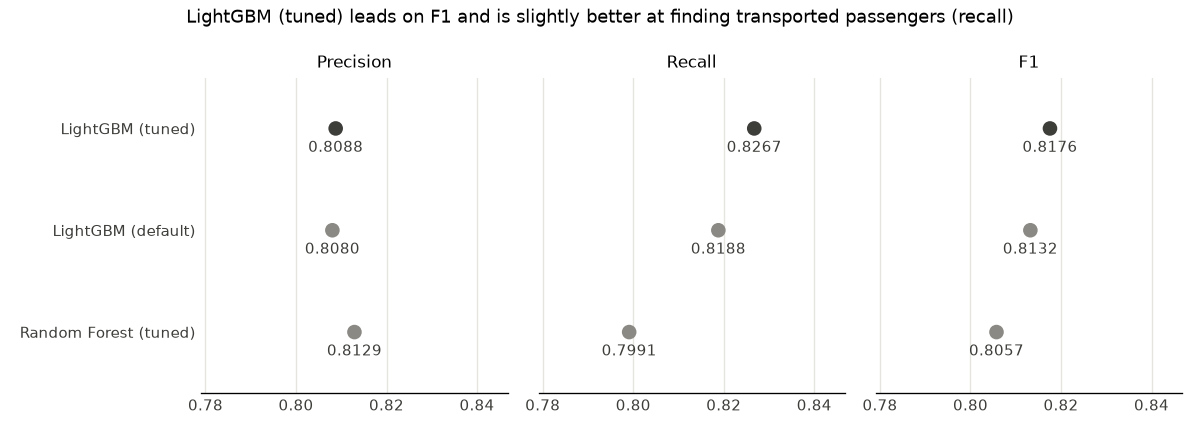
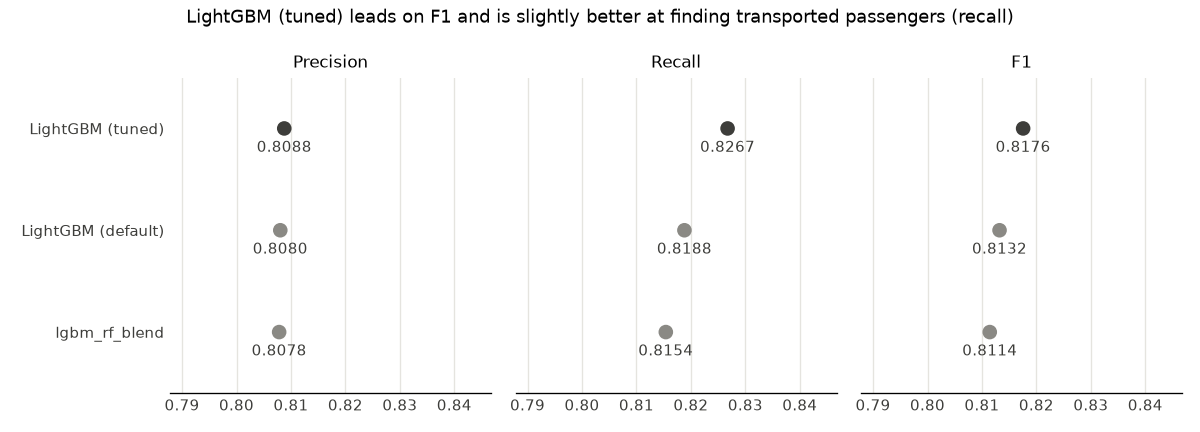
feat(role4): add 05c_blend.py, 50/50 soft-voting blend of tuned LightGBM + RF (#19)
- Rebuilds both tuned models from best_params_*.json (checked against
  results.csv with 07's load_params) and scores the blend with evaluate()
  on the shared GroupKFold folds -> row lgbm_rf_blend.
- Fixed 50/50 weights: no extra tuning, so no extra selection bias.
- Out-of-fold agreement analysis explains the result: probabilities
  correlate at 0.96, models disagree on 7.0% of passengers, and there
  LightGBM is right more often than the blend.
- Blend 0.8093 +/- 0.0129 vs LightGBM 0.8142 +/- 0.0112: does not beat the
  current best by more than one std, so 07_final_model.py is unchanged.
- Re-ran 06_compare.py so the blend is in the table and charts.
- Report updated; leakage review found no leakage.

diff --git a/05c_blend.py b/05c_blend.py
@@ -1,0 +1,205 @@
+"""Soft-voting blend of the tuned LightGBM and tuned Random Forest (Role 4, issue #19).
+
+Idea: LightGBM (boosting) and Random Forest (bagging) build trees in different
+ways, so they may make *different* mistakes. Soft voting averages the two
+models' predicted probabilities and predicts "transported" when the average
+is above 0.5. If the models disagree often and each is right in different
+places, the average can beat both; if they agree almost everywhere, the blend
+can only match them.
+
+Design choices (both keep the comparison fair):
+- Each model is rebuilt from its saved results/best_params_<name>.json, checked
+  against the params logged in results.csv, so we blend exactly the models
+  whose CV scores are already on the slides.
+- Fixed 50/50 weights, no tuning: tuning the weights on the same folds would
+  add another lucky pick (more optimism). With fixed weights the blend adds
+  no selection of its own.
+
+Steps:
+1. Load both tuned parameter sets (checked against results.csv).
+2. Score the blend with evaluate() on the shared GroupKFold folds
+   -> "lgbm_rf_blend" row + results/best_params_lgbm_rf_blend.json.
+   Nothing new is tuned: that json only records the configuration (the two
+   components' params, as Pipeline keys) under the team's file-name convention.
+   07_final_model.py ignores it unless Role 1 adds the blend to its MODELS.
+3. Overfitting check: training-fold vs validation-fold accuracy.
+4. Why the blend helps or not: how similar the two models' out-of-fold
+   probabilities are, and who is right when they disagree.
+5. Compare with LightGBM and Random Forest using the fold-to-fold std rule.
+
+test.csv is never read here.
+
+Run from the project folder:  python 05c_blend.py
+"""
+import importlib
+import json
+
+import pandas as pd
+from lightgbm import LGBMClassifier
+from sklearn.ensemble import RandomForestClassifier, VotingClassifier
+from sklearn.model_selection import cross_val_predict
+from sklearn.pipeline import Pipeline
+
+from src.config import RESULTS_DIR, SEED, TARGET, TRAIN_PATH
+from src.evaluation import RESULTS_PATH, evaluate, get_cv, get_groups
+from src.features import add_features, build_preprocessor
+
+OWNER = "Role 4"
+NAME = "lgbm_rf_blend"
+COMPONENTS = ("lightgbm", "random_forest")
+
+# Reuse 07's check that a best_params json still matches the params logged
+# with its CV score (the module name starts with a digit, hence importlib).
+load_params = importlib.import_module("07_final_model").load_params
+
+
+def load_data():
+    df = pd.read_csv(TRAIN_PATH)
+    X = add_features(df).drop(columns=[TARGET])  # same X as every model script
+    return X, df[TARGET], get_groups(df)
+
+
+def load_component_params():
+    """Tuned params of each component, as plain model keywords (no 'model__')."""
+    results = pd.read_csv(RESULTS_PATH)
+    params = {}
+    for name in COMPONENTS:
+        saved = load_params(name, results, RESULTS_DIR)  # raises if json != results.csv
+        params[name] = {k.removeprefix("model__"): v for k, v in saved.items()}
+    return params
+
+
+def make_component(name, params):
+    """One tuned model, exactly as 04/05 validated it (same SEED)."""
+    if name == "lightgbm":
+        return LGBMClassifier(random_state=SEED, verbose=-1, **params)
+    return RandomForestClassifier(random_state=SEED, **params)
+
+
+def make_blend(params):
+    """One shared preprocessor, then a 50/50 average of the two models' probabilities.
+
+    The preprocessor is the same build_preprocessor() both models use alone,
+    fitted inside each fold like every other pipeline (rule 4). Equal weights
+    are VotingClassifier's default, so no weights are tuned.
+    """
+    voter = VotingClassifier(
+        [(name, make_component(name, params[name])) for name in COMPONENTS],
+        voting="soft")  # soft = average probabilities, not count votes
+    return Pipeline([("prep", build_preprocessor()), ("model", voter)])
+
+
+def flat_params(params):
+    """Params as Pipeline keys (model__lightgbm__learning_rate, ...).
+
+    pipe.set_params(**flat_params(params)) rebuilds exactly this blend, so the
+    json and the results.csv row describe the model that was scored.
+    """
+    return {f"model__{name}__{k}": v
+            for name in COMPONENTS for k, v in params[name].items()}
+
+
+def oof_probabilities(params, X, y, groups):
+    """Out-of-fold P(transported) of each model alone, on the shared folds."""
+    probs = {}
+    for name in COMPONENTS:
+        pipe = Pipeline([("prep", build_preprocessor()),
+                         ("model", make_component(name, params[name]))])
+        probs[name] = cross_val_predict(pipe, X, y, groups=groups, cv=get_cv(),
+                                        method="predict_proba")[:, 1]
+    return pd.DataFrame(probs, index=y.index)
+
+
+def agreement_report(probs, y):
+    """How alike the two models are; returns the numbers for the conclusion."""
+    corr = probs["lightgbm"].corr(probs["random_forest"])
+    pred = probs > 0.5
+    disagree = pred["lightgbm"] != pred["random_forest"]
+    print(f"   correlation of the two models' probabilities: {corr:.4f}")
+    print(f"   they predict different classes for {disagree.sum()} of {len(y)} "
+          f"passengers ({disagree.mean():.1%})")
+    if disagree.any():
+        # Only these passengers can be changed by blending: where both models
+        # agree, the average lands on the same side of 0.5.
+        lgbm_right = (pred.loc[disagree, "lightgbm"] == y[disagree]).mean()
+        blend_right = ((probs.loc[disagree].mean(axis=1) > 0.5) == y[disagree]).mean()
+        print(f"   on those passengers: LightGBM right {lgbm_right:.1%}, "
+              f"Random Forest right {1 - lgbm_right:.1%}, blend right {blend_right:.1%}")
+        return corr, disagree.mean(), lgbm_right, blend_right
+    return corr, 0.0, float("nan"), float("nan")
+
+
+def compare_with_components(res):
+    """Blend vs each tuned model, with the team's fold-to-fold std rule."""
+    results = pd.read_csv(RESULTS_PATH).set_index("model")
+    cols = ["accuracy_mean", "accuracy_std", "f1_mean", "roc_auc_mean", "fit_time_s"]
+    print(results.loc[[*COMPONENTS, NAME], cols].round(4).to_string())
+    verdicts = {}
+    for other in COMPONENTS:
+        diff = res["accuracy_mean"] - results.loc[other, "accuracy_mean"]
+        # A rule of thumb, not a statistical test: a gap smaller than the
+        # fold-to-fold std could come from which passengers landed in which fold.
+        noise = max(res["accuracy_std"], results.loc[other, "accuracy_std"])
+        clear = diff > noise
+        print(f"   blend vs {other}: {diff * 100:+.2f} points ("
+              + ("larger than" if abs(diff) > noise else "within")
+              + f" the fold-to-fold spread, std ~{noise * 100:.2f} points)")
+        verdicts[other] = (diff, clear)
+    return verdicts
+
+
+def main():
+    X, y, groups = load_data()
+
+    print("1. Tuned parameters (checked against results.csv)")
+    params = load_component_params()
+    for name in COMPONENTS:
+        print(f"   {name}: {params[name]}")
+
+    print("\n2. Soft-voting blend (50/50) on the shared GroupKFold folds")
+    logged = flat_params(params)
+    params_path = RESULTS_DIR / f"best_params_{NAME}.json"
+    params_path.write_text(json.dumps(logged, indent=2))
+    print(f"   saved {params_path.relative_to(RESULTS_DIR.parent)}")
+    res = evaluate(make_blend(params), X, y, groups, name=NAME, owner=OWNER,
+                   params=logged)
+    print(f"   out-of-fold confusion matrix (rows = true False/True, "
+          f"cols = predicted False/True):\n{res['confusion_matrix']}")
+
+    print("\n3. Overfitting check (mean over the 5 folds)")
+    gap = res["train_accuracy_mean"] - res["accuracy_mean"]
+    print(f"   blend: train {res['train_accuracy_mean']:.4f} vs validation "
+          f"{res['accuracy_mean']:.4f} -> gap {gap * 100:.1f} points")
+
+    print("\n4. Do the two models make different mistakes? (out-of-fold)")
+    probs = oof_probabilities(params, X, y, groups)
+    corr, disagree_share, lgbm_right, blend_right = agreement_report(probs, y)
+
+    print("\n5. Comparison with the two tuned models in results.csv")
+    verdicts = compare_with_components(res)
+
+    # Compare with whichever component scores best in results.csv, not an
+    # assumed winner, so the conclusion stays right if the tuned rows change.
+    accs = pd.read_csv(RESULTS_PATH).set_index("model")["accuracy_mean"]
+    best = accs[list(COMPONENTS)].idxmax()
+    diff_best, beats_best = verdicts[best]
+    # Blending can only change passengers where the two models disagree, so
+    # who is right there decides whether the average helps.
+    why = (f"Blending only changes passengers where the models disagree "
+           f"({disagree_share:.1%}; probability correlation {corr:.2f}). There, "
+           f"LightGBM alone is right {lgbm_right:.1%} of the time and the blend "
+           f"{blend_right:.1%}, so "
+           + ("averaging in the weaker forest costs LightGBM some correct answers. "
+              if blend_right < lgbm_right else
+              "the forest corrects some of LightGBM's mistakes. "))
+    print(f"\n-> The 50/50 blend scores {res['accuracy_mean']:.2%} accuracy, "
+          f"{diff_best * 100:+.2f} points vs the best single model ({best}). " + why
+          + ("It beats the current best by more than one std: Role 1 should "
+             "consider it for 07_final_model.py (issue #19)."
+             if beats_best else
+             "It does not beat the current best by more than one std, so "
+             "07_final_model.py stays unchanged (issue #19 rule)."))
+
+
+if __name__ == "__main__":
+    main()

diff --git a/reports/role4_lightgbm.md b/reports/role4_lightgbm.md
@@ -1,5 +1,5 @@
 # Role 4 – Model C: LightGBM (Get)
-Last updated: 2026-10-30 · Status: Done
+Last updated: 2026-11-19 · Status: Done
 
 ## 1. Slide summary
 - Tuned LightGBM reaches **81.42% ± 1.12** cross-validated accuracy (ROC-AUC 0.9025), **+4.01 points** above Logistic Regression (77.41%).
@@ -8,6 +8,7 @@ Last updated: 2026-10-30 · Status: Done
 - The model relies most on **spending** (Spa, VRDeck, FoodCourt) and **CryoSleep**; GroupSize and VIP add almost nothing.
 - vs tuned Random Forest (80.60%): LightGBM is **+0.82 points** ahead, but that is **within the fold-to-fold spread (~1.31 points)**, so the two are effectively tied. LightGBM has higher F1 and ROC-AUC and fits more than 10× faster per fold (0.17 s vs 2.05 s).
 - The whole search (30 settings × 5 folds) took **25–27 seconds**.
+- **Blend (issue #19):** a 50/50 soft-voting blend of tuned LightGBM + tuned RF scores **80.93% ± 1.29**, **0.49 points below LightGBM alone** (within noise). The two models agree on 93% of passengers, and where they disagree LightGBM is right more often, so averaging adds nothing. LightGBM stays the final model.
 
 ## 2. What I did
 1. Scored LightGBM with default settings using the shared `evaluate()` → row `lightgbm_default` (`05_lightgbm.py`, step 1).
@@ -17,6 +18,7 @@ Last updated: 2026-10-30 · Status: Done
 5. Permutation importance on the validation folds only, averaged over the 5 folds (`permutation_importance_cv()`) → `plots/11_lightgbm_permutation_importance.png`.
 6. Compared with the baselines and Role 3's Random Forest in `results.csv` (`compare_with_others()`), re-run on up-to-date main after Role 3's merge.
 7. Checked: the script gives identical results on a second run; the saved params pass `07_final_model.py`'s `load_params()` check; leakage review found no leakage.
+8. Issue #19: built a 50/50 soft-voting blend of the tuned LightGBM and tuned Random Forest (`05c_blend.py`). Rebuilt both from their saved `best_params_*.json` (checked against `results.csv`), scored with `evaluate()` → row `lgbm_rf_blend`, ran an overfitting check and an out-of-fold agreement analysis, and compared against both models.
 
 ## 3. Key decisions and why
 | Decision | Why | Evidence (number, chart or source) |
@@ -27,6 +29,9 @@ Last updated: 2026-10-30 · Status: Done
 | Plain Python lists instead of scipy distributions | The chosen values must survive JSON unchanged, because 07 checks the json file against the params in `results.csv` | `load_params("lightgbm")` passes |
 | `refit=False` in the search | `evaluate()` refits per fold, and the final fit on all data is Role 1's job (07); a refit here would be wasted time | – |
 | Permutation importance on validation folds, shuffling original columns | Measures what helps on *unseen* passengers; one-hot columns are judged together (e.g. "Deck", not "Deck_F") | `plots/11_lightgbm_permutation_importance.png` |
+| Blend: fixed 50/50 weights, no weight tuning | Tuning the weights on the same folds would be another lucky pick (more optimistic score). With fixed weights the blend adds no selection of its own and keeps issue #19's tuning budget | Issue #19 rules; `05c_blend.py` docstring |
+| Blend: rebuild both models from `best_params_*.json`, checked with 07's `load_params()` | Guarantees we blend exactly the models whose CV scores are on the slides | `05c_blend.py` step 1 |
+| Blend: one shared `build_preprocessor()` before a `VotingClassifier(voting="soft")` | Same preparation step as every model (rule 4); soft voting uses the probabilities, so a confident model counts more than an unsure one | – |
 | Names `lightgbm_default` / `lightgbm` | CLAUDE.md contract: 07 looks for `lightgbm` + `best_params_lightgbm.json` | `results/results.csv` |
 
 ## 4. Results
@@ -93,6 +98,26 @@ Errors are balanced between the two classes (856 false positives vs 759 false ne
 - **Both models agree on what matters:** spending (Spa, VRDeck, FoodCourt) and CryoSleep are the top 4 features in both, which makes the finding robust to the model choice.
 - **Practical tie-breaker:** with accuracy within noise, LightGBM also has higher F1 (0.8176 vs 0.8057) and ROC-AUC (0.9025 vs 0.8950), a smaller overfitting gap, and fits more than 10× faster per fold (0.1735 s vs 2.0473 s). The forest has slightly higher precision (0.8129 vs 0.8088), LightGBM higher recall (0.8267 vs 0.7991). The final choice is Role 1's (`07_final_model.py`).
 
+**Soft-voting blend: LightGBM + Random Forest (issue #19, `05c_blend.py`)**
+
+Each model's probability of "transported" is averaged 50/50; the blend predicts True when the average is above 0.5.
+
+| Model | Accuracy | Precision | Recall | F1 | ROC-AUC | Fit time / fold |
+|---|---|---|---|---|---|---|
+| **LightGBM tuned** | **0.8142 ± 0.0112** | 0.8088 | **0.8267** | **0.8176** | **0.9025** | **0.1735 s** |
+| Blend 50/50 (`lgbm_rf_blend`) | 0.8093 ± 0.0129 | 0.8078 | 0.8154 | 0.8114 | 0.9022 | 1.1861 s |
+| Random Forest tuned | 0.8060 ± 0.0131 | **0.8129** | 0.7991 | 0.8057 | 0.8950 | 2.0473 s |
+
+- Script output: "blend vs lightgbm: -0.49 points (within the fold-to-fold spread, std ~1.29 points)"; "blend vs random_forest: +0.32 points (within the fold-to-fold spread, std ~1.31 points)".
+- **Overfitting:** train 0.8815 vs validation 0.8093 → **7.2-point gap**, between LightGBM (4.0) and RF (9.2). The deep RF trees bring their memorisation into the blend.
+- **Out-of-fold confusion matrix** (rows = true, columns = predicted): not transported 3,466 / 849; transported 809 / 3,569.
+- **Why the blend doesn't help** (out-of-fold, same folds):
+  - The two models' probabilities correlate at **0.9648**. They predict different classes for only **607 of 8,693 passengers (7.0%)**.
+  - Blending can only change those 607: where both models agree, their average is on the same side of 0.5.
+  - On those 607, **LightGBM alone is right 55.8%**, Random Forest 44.2%, the blend 48.8%. Averaging in the weaker forest costs LightGBM some of its correct answers.
+  - A blend helps when the models are about equally good *and* make different mistakes. Here LightGBM is the stronger model and the two mostly make the same mistakes.
+- **Decision:** the blend does not beat the current best by more than one std (it is below it), so `07_final_model.py` stays on LightGBM (issue #19 rule).
+
 ## 5. Charts for the slides
 | File in plots/ | One-line caption (the finding) | Suggested slide |
 |---|---|---|
@@ -106,11 +131,13 @@ Errors are balanced between the two classes (856 false positives vs 759 false ne
 - Scored with the shared `evaluate()`; `07_final_model.py` rebuilds exactly the validated model (leakage review: identical predictions).
 - **Honest caveat:** 0.8142 is the best of 30 settings, scored on the same folds that chose it, so it is slightly optimistic (probably a few tenths of a point). Expect about 0.81 on new data. Random Forest is tuned the same way on the same folds, so the RF vs LightGBM comparison stays fair. Nested CV would remove this bias at 5× the cost; we judged it unnecessary.
 - The importance chart uses the same validation rows that chose the settings; the effect on the ranking is negligible.
+- Blend: same `get_cv()` folds, preprocessing inside the Pipeline, `random_state=SEED` in both models, test.csv never read. The agreement figures use out-of-fold probabilities (`cross_val_predict` on `get_cv()`), so every passenger is judged by models that never saw them. The component params were chosen on these folds, so the blend inherits their small best-of-30 optimism, but it adds none of its own (fixed weights). Two runs gave identical scores.
 
 ## 7. Problems and how I fixed them
 - PC had only Python 3.10 without packages; the team pins Python 3.14 versions → installed Python 3.14 and a project `.venv` with `requirements.txt`.
 - Thai Windows console (cp874) can't print "±" → `UnicodeEncodeError` → run with `PYTHONUTF8=1` (affects every script; flagged to Role 1).
 - LightGBM silently ignores `subsample` without `subsample_freq` → added `subsample_freq: [1]` to the search space so it is saved and reused by 07.
+- Blend script: the first draft of the conclusion was written before seeing the numbers ("disagree on only…") → rewrote it to print what the data says (who is right where the models disagree).
 - First printout called a difference bigger than one std "a real difference" → reworded to "larger than the fold-to-fold spread", because it is a rule of thumb, not a test.
 
 ## 8. Likely Q&A questions
@@ -125,6 +152,10 @@ Errors are balanced between the two classes (856 false positives vs 759 false ne
 | Why `subsample_freq = 1`? | LightGBM ignores `subsample` unless bagging is switched on; saving it means the final model is exactly the validated one. |
 | How do you know it's not overfitting? | Train 85.45% vs validation 81.42% (4.0-point gap), down from 8.6 points with default settings. |
 | Why permutation importance and not LightGBM's built-in importance? | Built-in importance counts splits on training data; permutation measures accuracy lost on unseen validation passengers. |
+| What is soft voting? | Each model gives a probability of "transported"; the blend averages them (50/50) and predicts True above 0.5. Hard voting would count yes/no votes instead. |
+| Why didn't the LightGBM + RF blend help? | The two models agree on 93% of passengers (probability correlation 0.96), so blending only changes 7%. On those, LightGBM is right 55.8% vs the blend 48.8%: averaging with the weaker forest costs correct answers. Result: 80.93% vs 81.42%, within noise. |
+| Why not tune the blend weights? | That would be another best-of-many pick on the same folds, making the score more optimistic. Fixed 50/50 adds no selection; issue #19 asked to keep the same tuning budget. |
+| When would a blend help? | When the models are about equally strong and make different mistakes (low correlation). Here one model is stronger and they mostly make the same mistakes. |
 | Why are the spending features so important? | Spending means the passenger was awake and active; EDA showed sleepers spend nothing and are transported far more often. |
 
 ## 9. Open items / handover
@@ -133,6 +164,9 @@ Errors are balanced between the two classes (856 false positives vs 759 false ne
 - [x] Leakage review passed (no leakage)
 - [x] Compared with Random Forest (re-run on up-to-date main after Role 3's merge; section 4)
 - [x] Report complete
+- [x] Issue #19 (Role 4 part): 50/50 soft-voting blend in `05c_blend.py`, `lgbm_rf_blend` row and `best_params_lgbm_rf_blend.json`; leakage review done. Does not beat LightGBM → no change to 07.
+- For Role 5/1 (`06_compare.py`): add `"lgbm_rf_blend": "LightGBM + RF blend (50/50)"` to `LABELS`, otherwise the chart shows the raw name. 06's conclusion now names the blend (not RF) as LightGBM's closest rival from another algorithm; the slide text may need updating.
+- For Role 3 (issue #19): CatBoost/XGBoost part is still open.
 - For Role 1 (07): `lightgbm` row and `best_params_lightgbm.json` are in place. LightGBM vs RF is within noise (+0.82 vs ~1.31 points spread); see section 4 for the tie-breakers.
 - For Role 1: the Thai console needs `PYTHONUTF8=1` to print "±" and "≈"; `evaluate()` rewriting the CSV trims the last float digits of other rows (cosmetic diff only).
 - Role 3 flagged that `05_lightgbm.py` prints "≈", which crashes on Windows consoles that can't encode it when output is redirected. With `PYTHONUTF8=1` the run completed (run log contains the line). Not changed in code yet.
